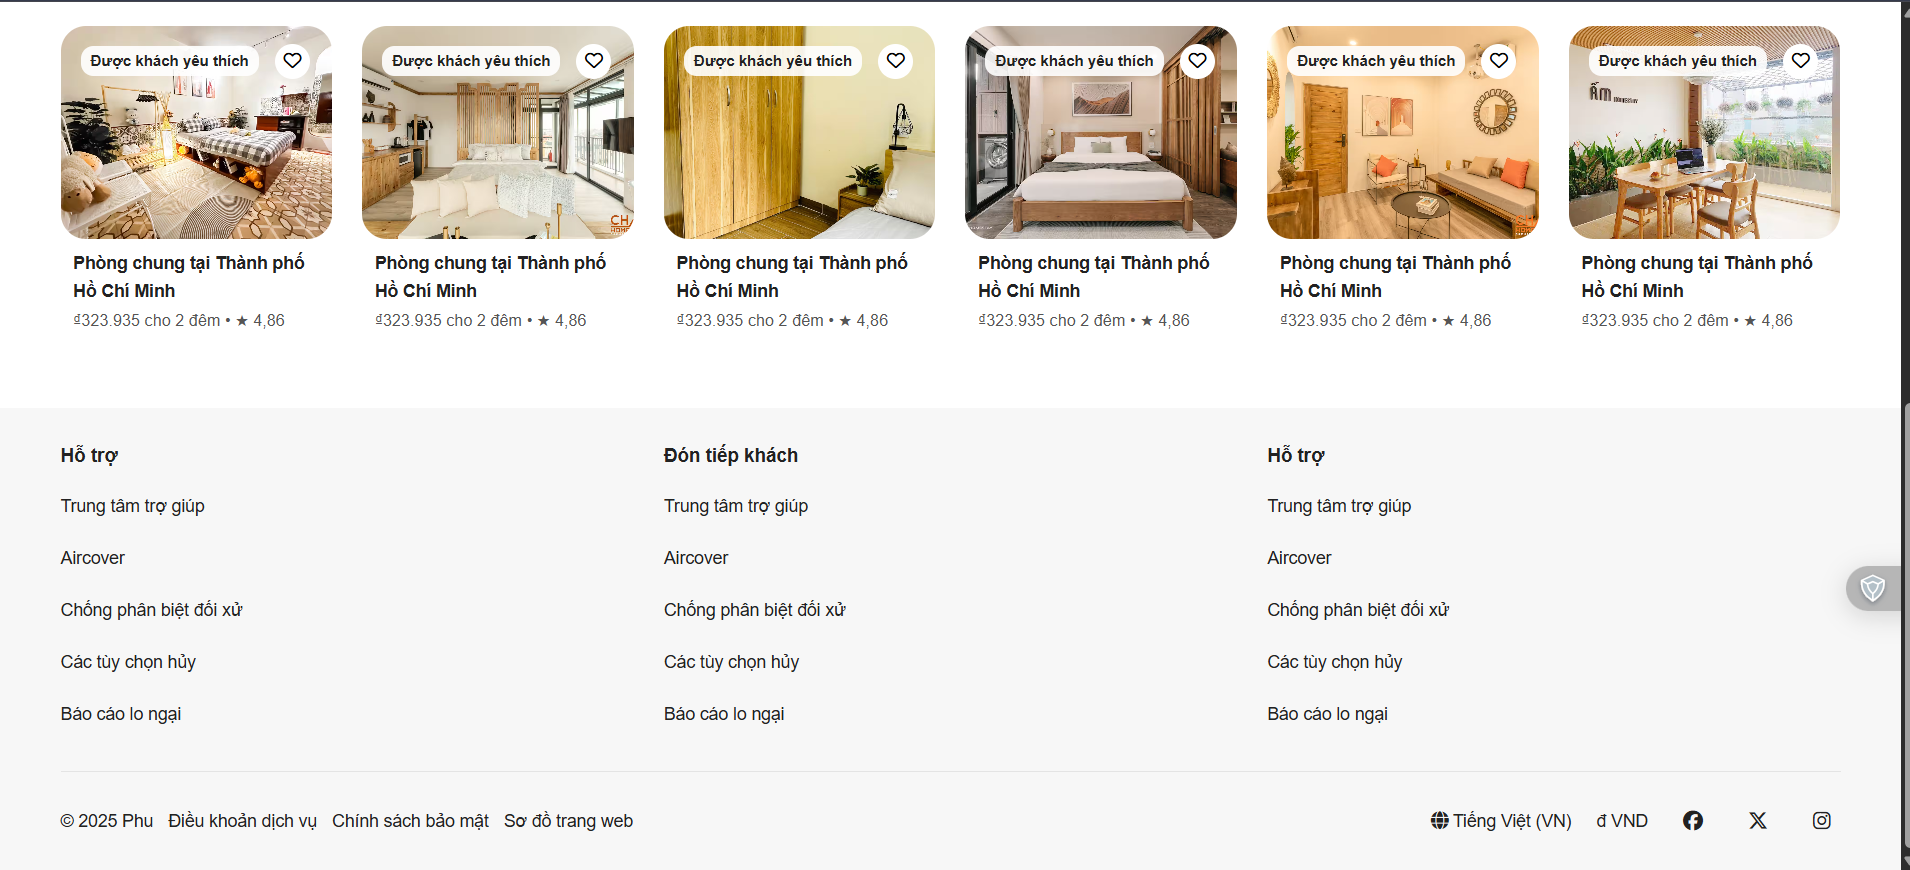
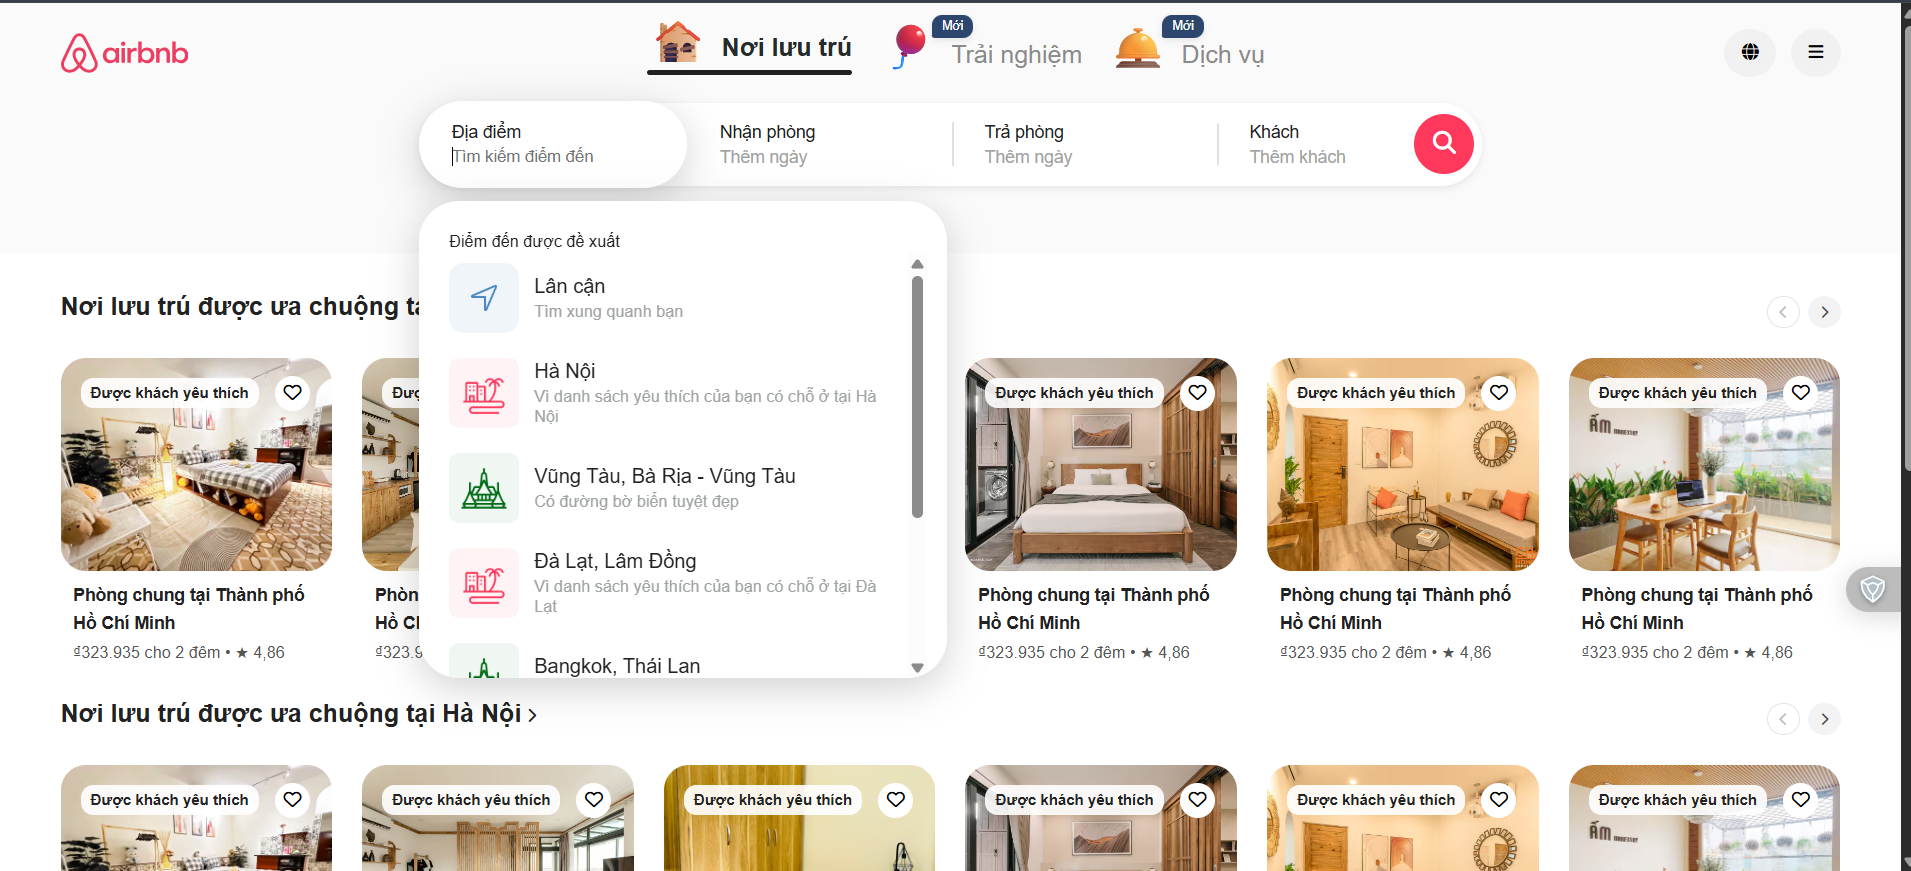
update read.me

diff --git a/README.md b/README.md
@@ -9,7 +9,7 @@ A personal frontend UI clone project that focuses on recreating the Airbnb homep
 
 ### Header & Search
 ![Header Search](assets/images/3_Header-Search.png)
-![Header Search Expanded](assets/images/3.1_Header-search.png)
+![Header Search Expanded](assets/images/4_Header-Search.png)
 
 ### Footer
 ![Footer](assets/images/2_Footer.png)
